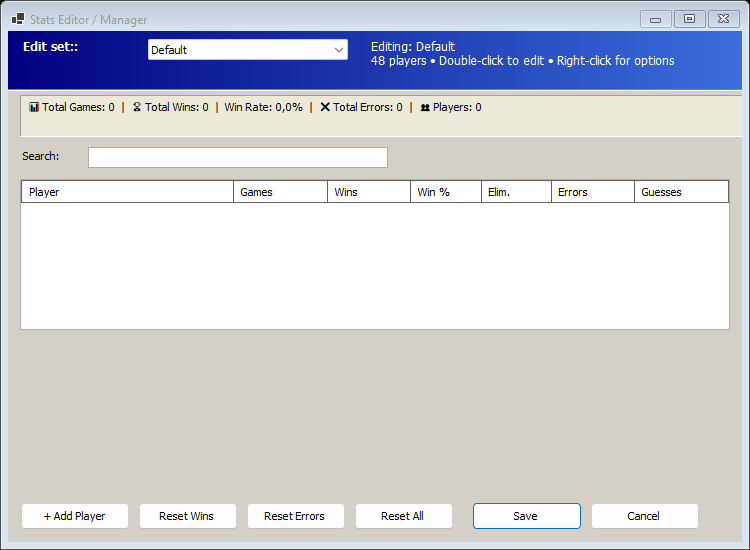
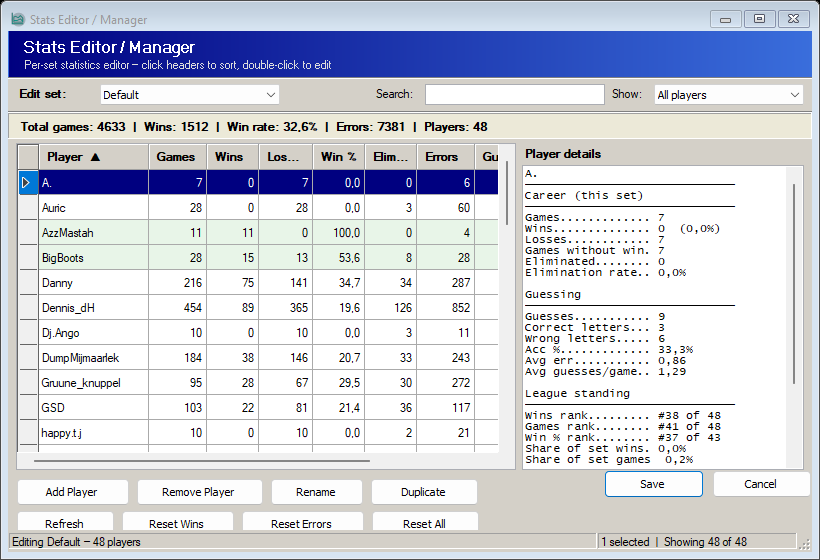
Galgje v8.0.17 - manual, press release, screenshots, download README

diff --git a/manual.html b/manual.html
@@ -3,7 +3,7 @@
 <head>
   <meta charset="UTF-8">
   <meta name="viewport" content="width=device-width, initial-scale=1.0">
-  <title>Galgje v8.0.14 - User Manual</title>
+  <title>Galgje v8.0.17 - User Manual</title>
   <link rel="icon" href="app.ico" type="image/x-icon">
   <style>
     :root {
@@ -415,7 +415,7 @@
     <div class="sidebar-brand">
       <img src="https://raw.githubusercontent.com/AzzKickah84/Galgje-releases/main/app.ico" alt="Galgje icon" width="48" height="48">
       <h1>Galgje Manual</h1>
-      <p>Version 8.0.14 - Complete Guide</p>
+      <p>Version 8.0.17 - Complete Guide</p>
     </div>
     <nav>
       <div class="section">Getting Started</div>
@@ -462,7 +462,7 @@
     <div class="hero">
       <div class="badge">Official User Manual</div>
       <h2>Galgje - Advanced Hangman for Windows</h2>
-      <p>This manual covers every feature of Galgje v8.0.14: from your very first game to advanced multiplayer sessions with timers, statistics, achievements, stats sets, the presentation Word Display window, the new full-screen projector views, and the menu bar with settings.</p>
+      <p>This manual covers every feature of Galgje v8.0.17: from your very first game to advanced multiplayer sessions with timers, statistics, achievements, stats sets, the presentation Word Display window, full-screen projector views, the Player Manager (Leaderboard, Hall of Fame, Compare, and more), and the menu bar with settings.</p>
       <div class="tip"><strong>New users</strong> After installing, open this manual from the Start Menu shortcut <strong>User Manual - Import Your Own Stats</strong> (or the desktop shortcut created during setup). Jump to <a href="#replace-stats" style="color:var(--accent)">Import Your Own Stats</a> if you want to load your existing game history.</div>
       <figure class="hero-shot">
         <img src="https://raw.githubusercontent.com/AzzKickah84/Galgje-releases/main/screenshots/001_Main_Game_Window.png" alt="Galgje main window during active gameplay">
@@ -513,7 +513,7 @@
       <h2>Installation</h2>
       <div class="steps">
         <div class="step"><div class="step-body"><h4>Install .NET 8 Desktop Runtime</h4><p>Download from <a href="https://dotnet.microsoft.com/download/dotnet/8.0/runtime" style="color:var(--accent)">dotnet.microsoft.com</a> if not already installed. The setup wizard checks this automatically.</p></div></div>
-        <div class="step"><div class="step-body"><h4>Run the Installer</h4><p>Download the latest installer from <a href="https://github.com/AzzKickah84/Galgje-releases/releases/latest" style="color:var(--accent)">GitHub Releases</a> (currently <code>GalgjeSetup_v8.0.13.202606300513.exe</code>) and follow the wizard.</p></div></div>
+        <div class="step"><div class="step-body"><h4>Run the Installer</h4><p>Download the latest installer from <a href="https://github.com/AzzKickah84/Galgje-releases/releases/latest" style="color:var(--accent)">GitHub Releases</a> (currently <code>GalgjeSetup_v8.0.17.202607031728.exe</code>) and follow the wizard.</p></div></div>
         <div class="step"><div class="step-body"><h4>Enable manual shortcuts</h4><p>Leave <strong>"Create a desktop shortcut to the User Manual"</strong> checked (on by default). The Start Menu always includes <strong>User Manual - Import Your Own Stats</strong>.</p></div></div>
         <div class="step"><div class="step-body"><h4>Open the manual after setup</h4><p>On the finish screen, tick <strong>Open the User Manual</strong> or launch it from Start Menu / Desktop. See <a href="#replace-stats" style="color:var(--accent)">Import Your Own Stats</a> to load your files.</p></div></div>
         <div class="step"><div class="step-body"><h4>Launch Galgje</h4><p>Open from the Start Menu or Desktop. On first run, Galgje creates data files in your user profile (see <a href="#data" style="color:var(--accent)">Data Locations</a>).</p></div></div>
@@ -1460,13 +1460,15 @@ Chris             35      15      42.9%   6              2.14</pre>
         <figcaption>Player Manager dialog - manage individual player profiles and achievements.</figcaption>
       </figure>
       <p><strong>Access:</strong> Players → Player Manager</p>
+      <p><strong>Tabs:</strong> Players, Leaderboard, Hall of Fame, Compare, Export, Explore, Teams, Word History, Insights, Achievements, Roster, Active Game, and Tools. Hover any tab header for a short tooltip describing what it does.</p>
       <p><strong>Features:</strong></p>
       <ul>
         <li>View all players and their statistics</li>
-        <li>Edit individual player records</li>
+        <li><strong>Leaderboard</strong> - sortable standings, charts, activity graph, and a compact Hall of Fame sidebar with rank badges (Gold / Silver / Bronze for the top 3)</li>
+        <li><strong>Hall of Fame</strong> - dedicated tab with career highlights (champion, sharpshooter, hot streak, rivalries, and more) in a two-column badge layout</li>
+        <li>Head-to-head and multi-player comparisons with export options</li>
         <li>View player achievements and badges</li>
-        <li>Reset individual player stats</li>
-        <li>Delete players from database</li>
+        <li>Reset individual player stats or delete players</li>
       </ul>
 
       <h3>Stats Editor Dialog</h3>
@@ -1474,14 +1476,14 @@ Chris             35      15      42.9%   6              2.14</pre>
         <img src="https://raw.githubusercontent.com/AzzKickah84/Galgje-releases/main/screenshots/016_Dialog_Stats_Editor.png" alt="Stats Editor showing detailed statistics for all players">
         <figcaption>Stats Editor dialog - advanced statistics management and editing.</figcaption>
       </figure>
-      <p><strong>Access:</strong> Edit → Edit Data Files → Player Statistics</p>
+      <p><strong>Access:</strong> Edit → Edit Data Files → Player Statistics (or from Player Manager)</p>
       <p><strong>Features:</strong></p>
       <ul>
-        <li>View and edit all player statistics in a spreadsheet</li>
-        <li>Bulk operations (reset all, export, import)</li>
-        <li>Sort and filter by any column</li>
-        <li>Validate data integrity</li>
-        <li>Undo/redo changes</li>
+        <li>View and edit all player statistics in a sortable spreadsheet-style grid</li>
+        <li>Filter by player name; click a row for a rich detail panel (career, guessing stats, league standing)</li>
+        <li>Delete players via button, context menu, or Delete key</li>
+        <li>Columns include wins, losses, win %, average errors, and accuracy %</li>
+        <li>Save changes to the selected stats set (not always the active set)</li>
       </ul>
 
       <h3>Stats Export Dialog</h3>
@@ -1546,7 +1548,7 @@ Chris             35      15      42.9%   6              2.14</pre>
     </section>
 
     <footer>
-      <p>© 2026 Thijs Boekholt - Galgje v8.0.14 User Manual</p>
+      <p>© 2026 Thijs Boekholt - Galgje v8.0.17 User Manual</p>
       <p>See also: <a href="press-release.html" style="color:var(--accent)">Press Release</a> · <a href="CHANGELOG.md" style="color:var(--accent)">Changelog</a></p>
     </footer>
 
